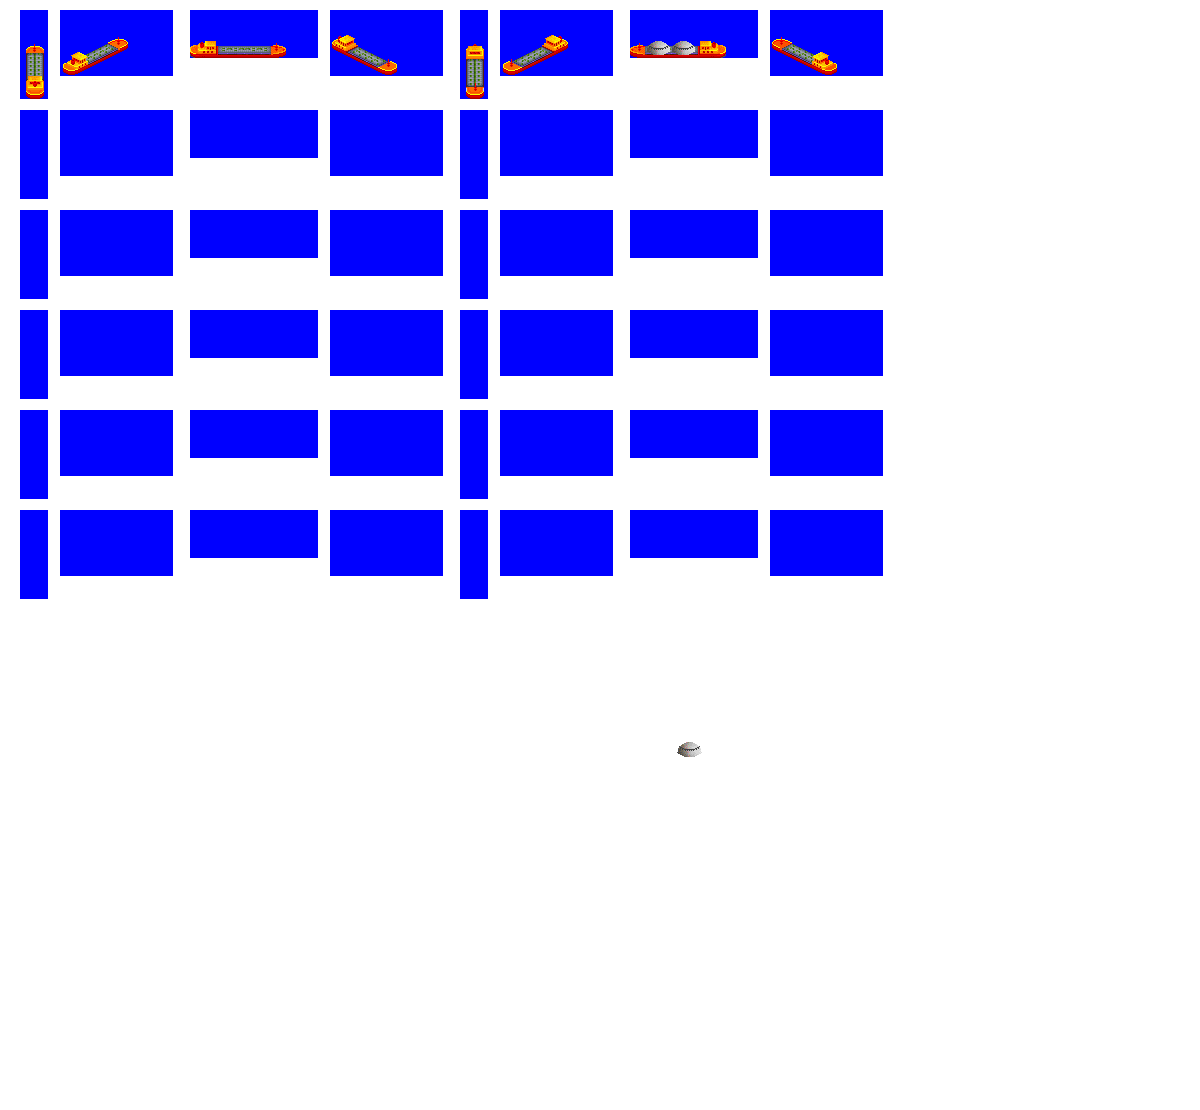
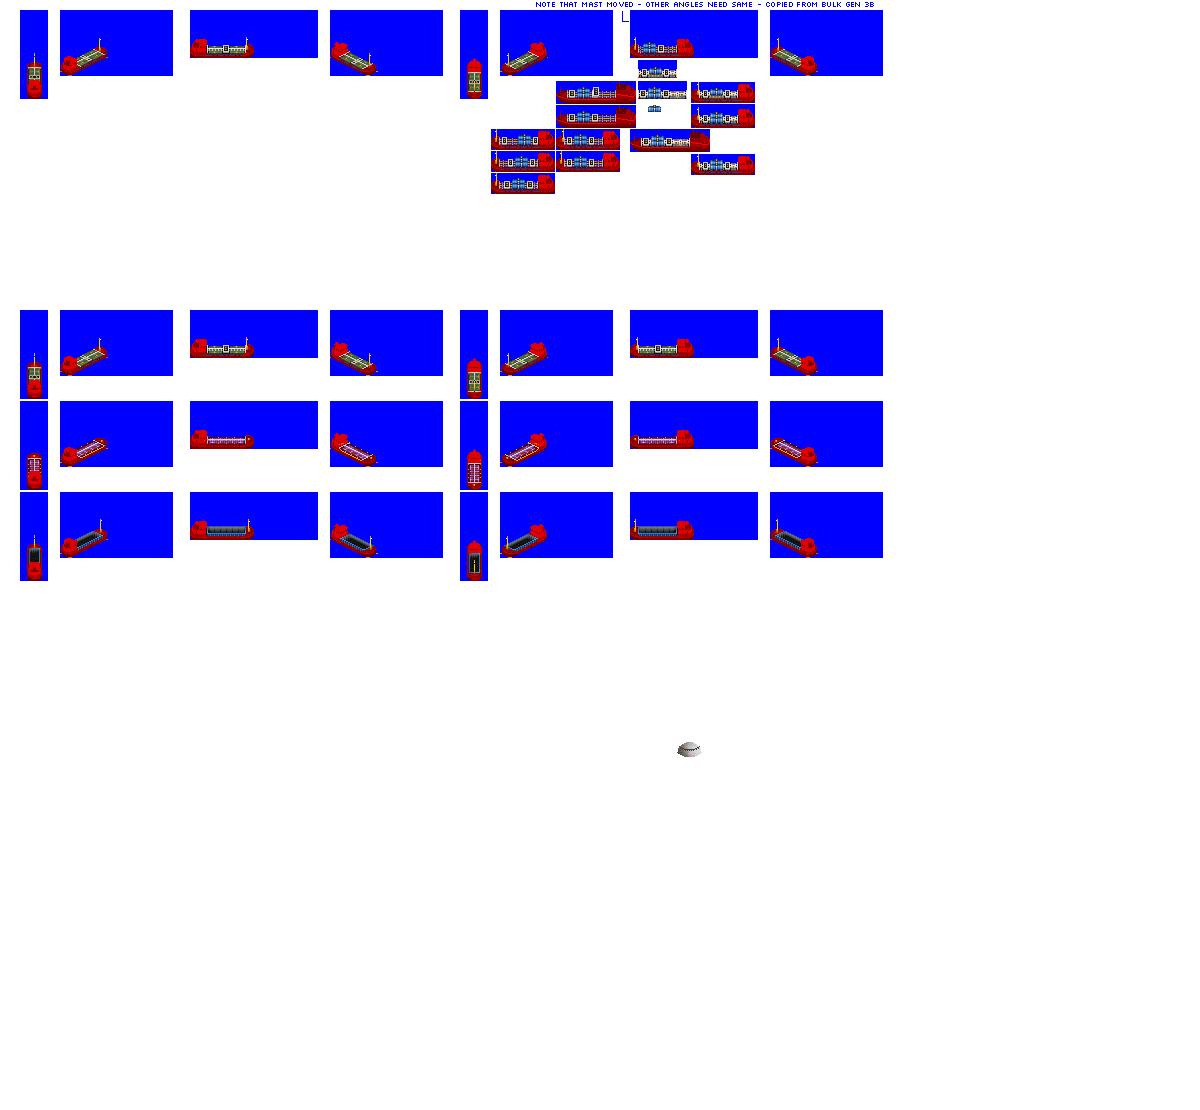
Change: WIP on cryo tankers

Changed region(s): [[0.0, 0.0306, 0.74, 0.2757], [0.0, 0.3063, 0.74, 0.5514], [0.1542, 0.0306, 0.2467, 0.0613]]

diff --git a/src/ship.py b/src/ship.py
@@ -514,8 +514,13 @@ class CryoTanker(Ship):
         self.default_cargos = global_constants.default_cargos["cryo_gases"]
         self.loading_speed_multiplier = 2
         # Graphics configuration
+        house_recolour_map = (
+            graphics_constants.house_recolour_roof_CC1_1
+        )
         self.gestalt_graphics = GestaltGraphicsSimpleColourRemaps(
-            hull_recolour_map=graphics_constants.hull_recolour_CC1
+            hull_recolour_map=graphics_constants.hull_recolour_CC1,
+            cargo_recolour_maps=polar_fox.constants.cryo_tanker_livery_recolour_maps,
+            house_recolour_map=house_recolour_map,
         )
 
 
